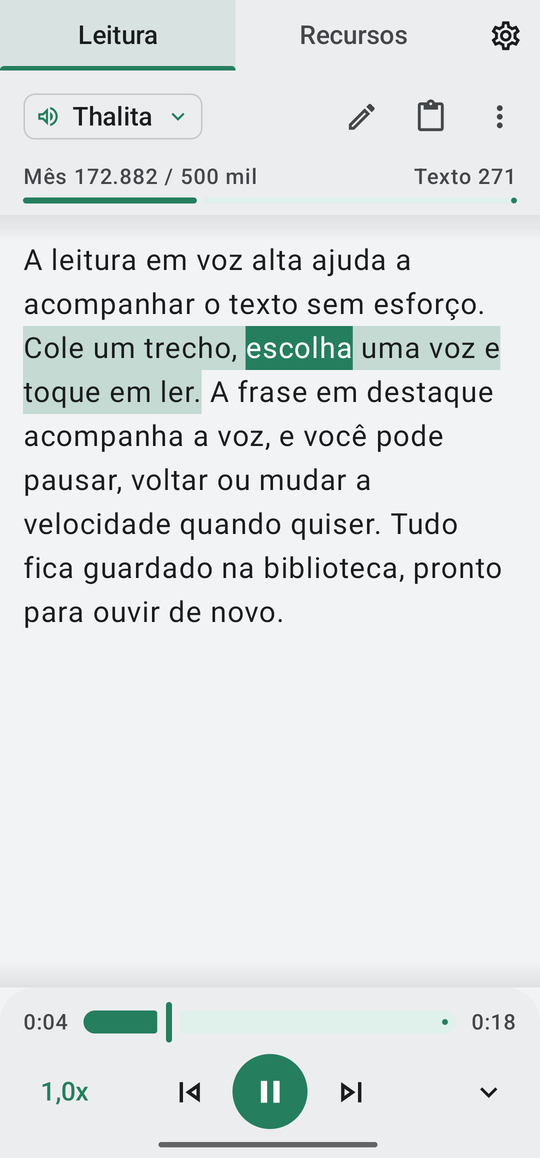
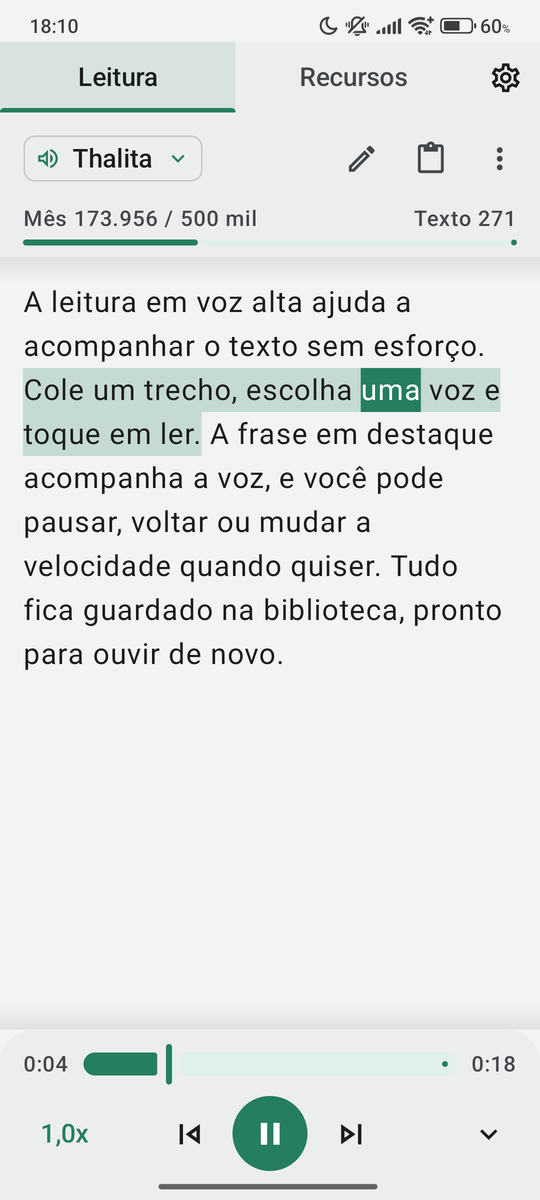
Os prints do README foram refeitos em tela inteira e do mesmo tamanho: Leitura, Configurações e Aparência

diff --git a/README.md b/README.md
@@ -12,7 +12,7 @@ Pensado para quem tem dislexia ou simplesmente prefere ouvir a ler.
 ![Android](https://img.shields.io/badge/Android-11%2B-33C48F?logo=android&logoColor=white)
 ![Kotlin](https://img.shields.io/badge/Kotlin-Compose-44484F?logo=kotlin&logoColor=white)
 
-<img src="docs/tela-leitura.png" width="30%" alt="Tela de leitura, com a frase lida em destaque e o player"> <img src="docs/tela-recursos.png" width="30%" alt="Tela de recursos, com os cartões de carregar, digitalizar, link e escrever texto"> <img src="docs/tela-configuracoes.png" width="30%" alt="Tela de configurações, com a lista em cartões">
+<img src="docs/tela-leitura.png" width="30%" alt="Tela de leitura, com a frase lida em destaque e o player"> <img src="docs/tela-configuracoes.png" width="30%" alt="Tela de configurações, com a lista em cartões"> <img src="docs/tela-aparencia.png" width="30%" alt="Tela de aparência, com o tamanho do texto, o tema e as cores de destaque">
 
 </div>
 
